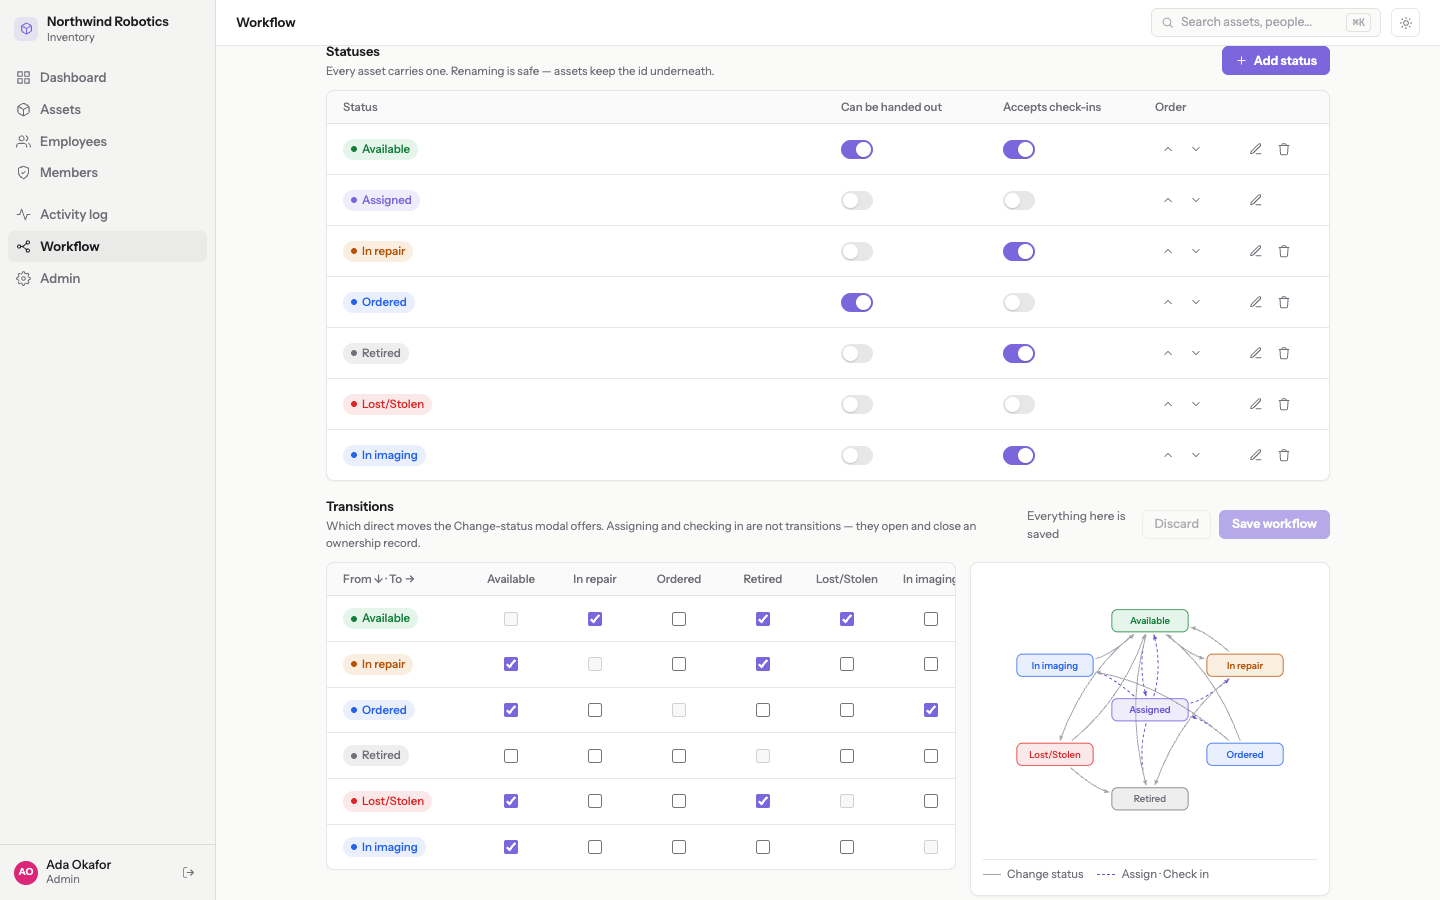
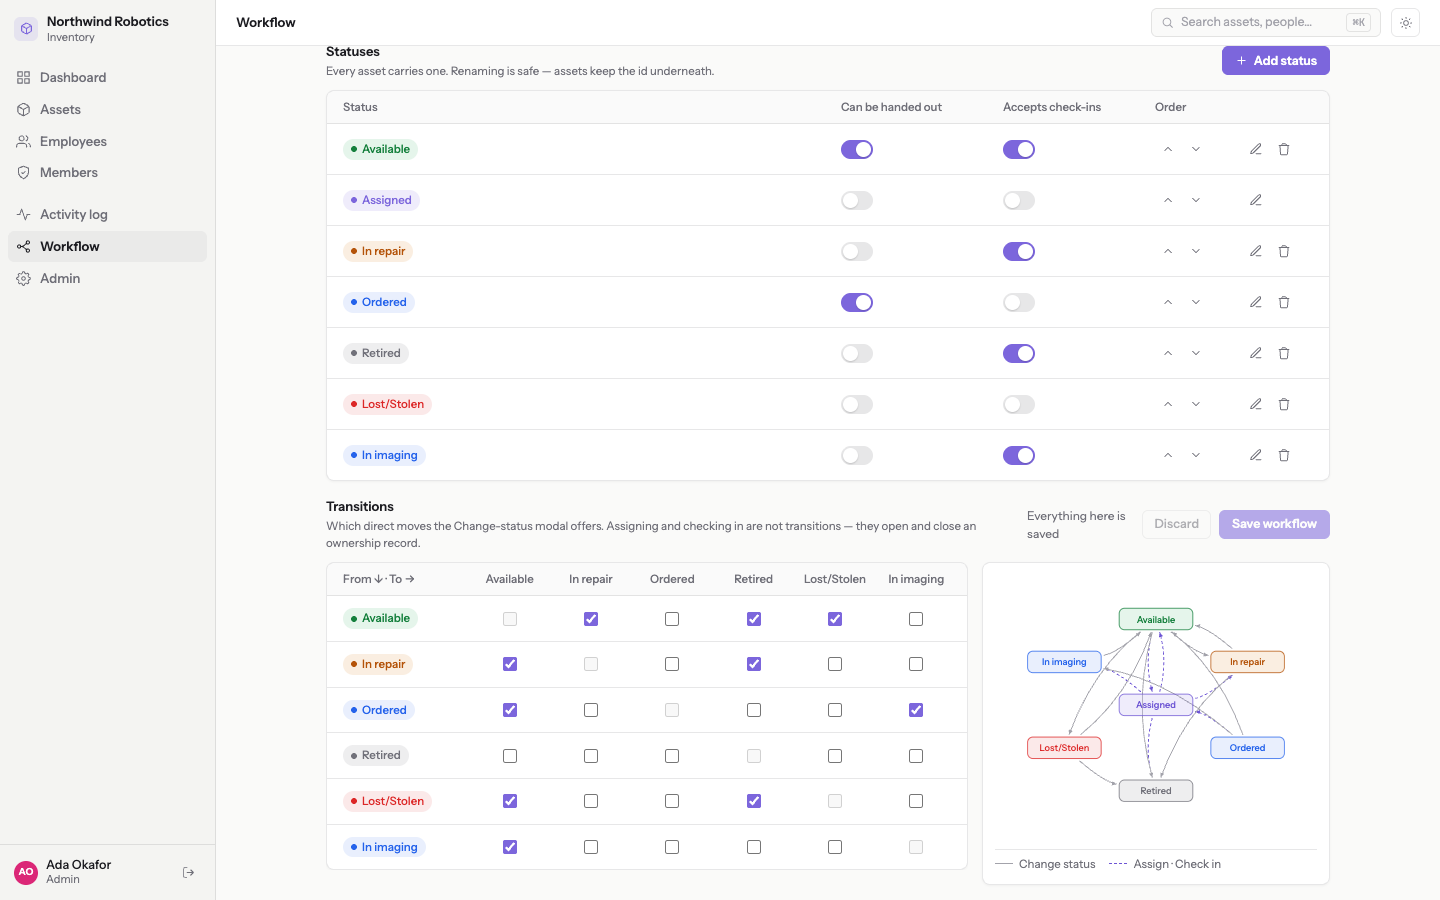
fix(web): the matrix hands its overflow to the scroll container, not the clip
A hardcoded min-width let the DataTable's rounded box (overflow: hidden)
clip the last column header once a seventh status existed — visible in the
README screenshot. min-content makes the table's floor track the status
count, so overflow always reaches the scroll container instead; slimmer
checkbox columns and a 348px diagram let the seeded seven-status demo fit
beside the diagram at 1440 with nothing cut. Screenshot re-taken.

diff --git a/apps/web/src/features/workflow/Workflow.module.css b/apps/web/src/features/workflow/Workflow.module.css
@@ -57,20 +57,24 @@
 }
 
 /* A grid this wide scrolls sideways rather than squeezing its columns into
-   ellipses — a matrix you cannot read the headers of is not a matrix. */
+   ellipses — a matrix you cannot read the headers of is not a matrix.
+   `min-content` rather than a hardcoded width: the table's own minimum grows
+   with every status an admin adds, and a fixed number would let the table's
+   rounded box clip the last column instead of handing the overflow to this
+   scroll container. */
 .matrix {
   overflow-x: auto;
 }
 
 .matrix > * {
-  min-width: 560px;
+  min-width: min-content;
 }
 
 /* The matrix and the diagram side by side: the same graph, edited on the left
    and read on the right. The matrix scrolls inside its own column. */
 .graph {
   display: grid;
-  grid-template-columns: minmax(0, 1fr) 360px;
+  grid-template-columns: minmax(0, 1fr) 348px;
   gap: 14px;
   align-items: start;
 }

diff --git a/apps/web/src/features/workflow/WorkflowPage.tsx b/apps/web/src/features/workflow/WorkflowPage.tsx
@@ -270,7 +270,10 @@ function MatrixCard({ statuses, transitions }: MatrixCardProps) {
     },
     ...movable.map((to): TableColumn<WorkflowStatus> => ({
       header: <span className={styles.cell}>{to.label}</span>,
-      width: 'minmax(72px, 1fr)',
+      // 64px holds a checkbox with room to breathe; the workspace's seven-
+      // status default fits beside the diagram at the 1440 design width, and
+      // the column only stretches from here.
+      width: 'minmax(64px, 1fr)',
       render: (from) => (
         <span className={styles.cell}>
           <Checkbox
